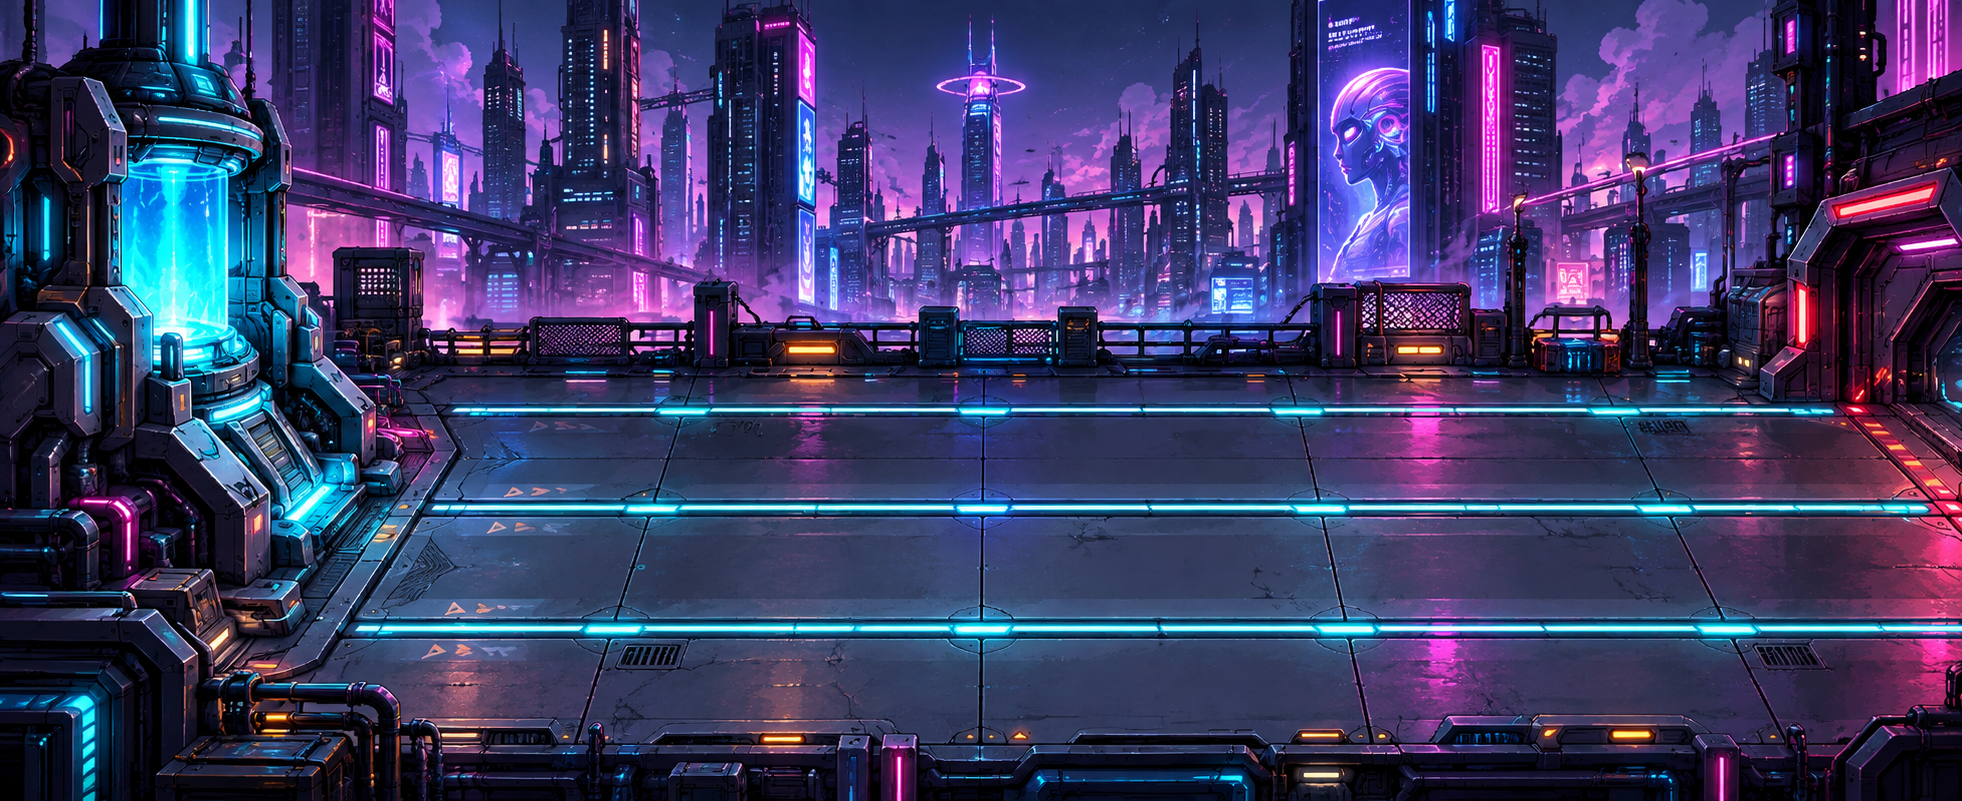
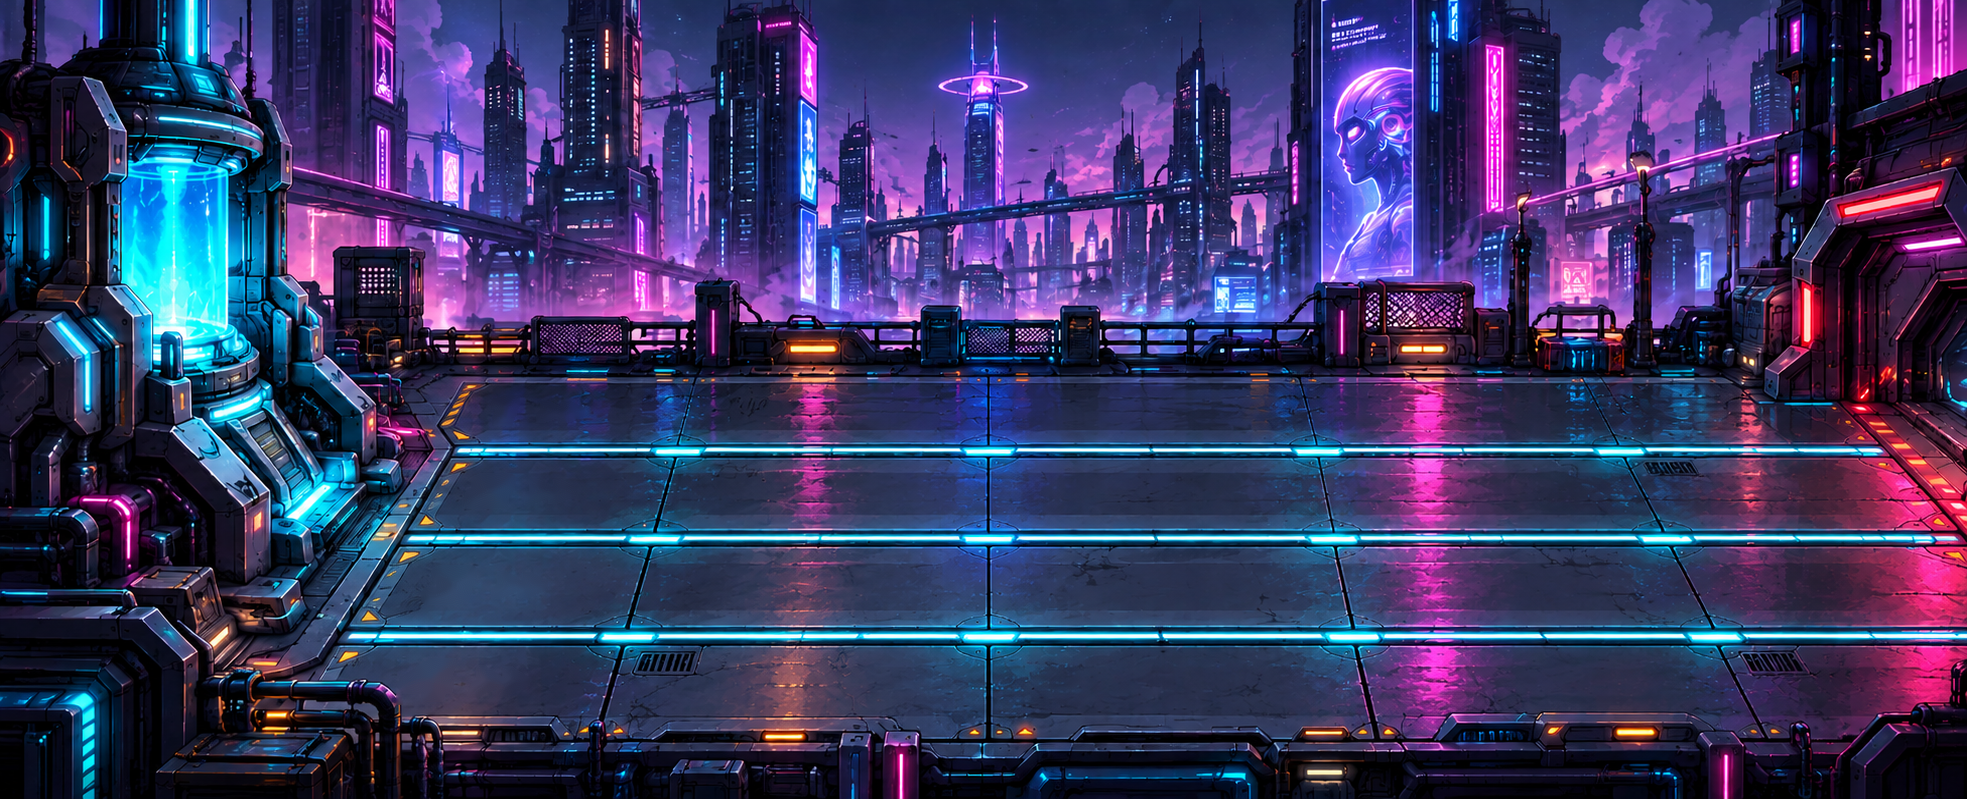
Implement cyberpunk background and interactive grid

diff --git a/src/world/Grid.cpp b/src/world/Grid.cpp
@@ -3,18 +3,22 @@
 Grid::Grid() {
 
     // Lane 0 - Top
-    lanes[0] = {0, 0.21f, 0.98f, 0.51f, 0.63f, false, false};
+    lanes[0] = {0, 0.21f, 0.98f, 0.40f, 0.51f, false, false};
 
-    // Lane 1 - Middle
-    lanes[1] = {1, 0.21f, 0.98f, 0.63f, 0.78f, false, false};
+    // Lane 1 - Upper Middle
+    lanes[1] = {1, 0.21f, 0.98f, 0.51f, 0.63f, false, false};
 
-    // Lane 2 - Bottom
-    lanes[2] = {2, 0.21f, 0.98f, 0.78f, 0.93f, false, false};
+    // Lane 2 - Lower Middle
+    lanes[2] = {2, 0.21f, 0.98f, 0.63f, 0.78f, false, false};
+
+    // Lane 3 - Bottom
+    lanes[3] = {3, 0.21f, 0.98f, 0.78f, 0.93f, false, false};
 }
 
-const std::array<Lane, 3>& Grid::getLanes() const {
+const std::array<Lane, 4>& Grid::getLanes() const {
     return lanes;
 }
+
 int Grid::getLaneAtPosition(float x, float y) const {
 
     for (const Lane& lane : lanes) {
@@ -29,4 +33,12 @@ int Grid::getLaneAtPosition(float x, float y) const {
     }
 
     return -1;
+}
+void Grid::toggleLaneSelection(int laneId) {
+
+    if (laneId < 0 || laneId >= 4) {
+        return;
+    }
+
+    lanes[laneId].selected = !lanes[laneId].selected;
 }

diff --git a/src/main.cpp b/src/main.cpp
@@ -232,6 +232,7 @@ glUniform1i(glGetUniformLocation(program, "backgroundTexture"), 0);
               << '\n';
 }
     int previousHoveredLane = -1;
+    int previousLeftMouseState = GLFW_RELEASE;
     while (!glfwWindowShouldClose(window)) {
         int framebufferWidth = 0, framebufferHeight = 0;
         glfwGetFramebufferSize(window, &framebufferWidth, &framebufferHeight);
@@ -258,6 +259,23 @@ if (windowWidth > 0 && windowHeight > 0) {
     float normalizedY = static_cast<float>(mouseY / windowHeight);
 
     int hoveredLane = grid.getLaneAtPosition(normalizedX, normalizedY);
+
+    int leftMouseState = glfwGetMouseButton(
+    window,
+    GLFW_MOUSE_BUTTON_LEFT
+);
+
+if (leftMouseState == GLFW_PRESS &&
+    previousLeftMouseState == GLFW_RELEASE &&
+    hoveredLane != -1) {
+
+    grid.toggleLaneSelection(hoveredLane);
+
+    std::cout << "Lane " << hoveredLane
+              << " selection toggled!" << std::endl;
+}
+
+previousLeftMouseState = leftMouseState;
 
     if (hoveredLane != previousHoveredLane) {
 

diff --git a/src/world/Grid.h b/src/world/Grid.h
@@ -7,10 +7,11 @@ class Grid {
 public:
     Grid();
 
-    const std::array<Lane, 3>& getLanes() const;
+    const std::array<Lane, 4>& getLanes() const;
 
     int getLaneAtPosition(float x, float y) const;
+    void toggleLaneSelection(int laneId);
 
 private:
-    std::array<Lane, 3> lanes;
+    std::array<Lane, 4> lanes;
 };
